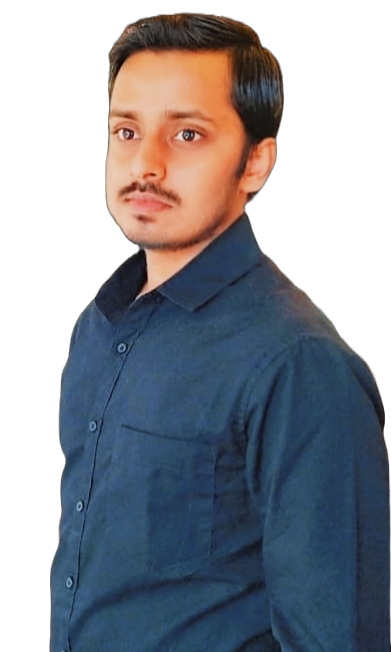
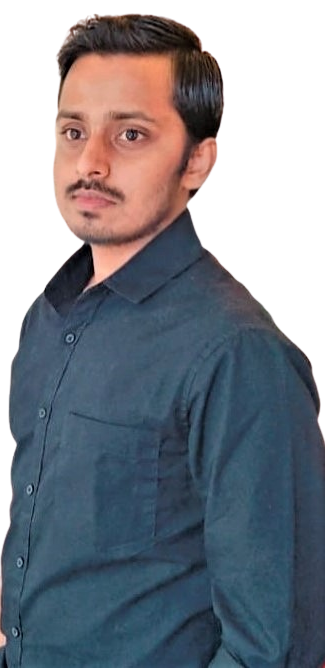
home section image changed and edited

diff --git a/src/components/home/index.module.scss b/src/components/home/index.module.scss
@@ -172,12 +172,12 @@
 
 .blob-Myimages1 {
   position: relative;
-  width: 53%;
+  width: 43%;
   margin-top: 2.5%;
   padding: 0;
   z-index: 2;
   transition: 0.8s;
-  border-radius: 0px 0px 50px 98px;
+  border-radius: 0px 0px 50px 58px;
 }
 .blob-Myimages1:hover {
   cursor: pointer;
@@ -187,12 +187,12 @@
 
 @media screen and (max-width: 1450px) {
   .blob-Myimages1 {
-    width: 56%;
+    width: 46%;
   }
 }
 @media screen and (max-width: 1380px) {
   .blob-Myimages1 {
-    width: 58%;
+    width: 48%;
     margin-top: 3.5%;
   }
   .blob-images2 {
@@ -204,7 +204,7 @@
 }
 @media screen and (max-width: 1280px) {
   .blob-Myimages1 {
-    width: 60%;
+    width: 50%;
   }
   .blob-images2 {
     width: 83%;
@@ -228,7 +228,7 @@
 
 @media screen and (max-width: 1215px) {
   .blob-Myimages1 {
-    width: 63%;
+    width: 53%;
     margin-top: 4.3%;
   }
   .blob-images2 {
@@ -241,7 +241,7 @@
 
 @media screen and (max-width: 1110px) {
   .blob-Myimages1 {
-    width: 69%;
+    width: 59%;
     // width: 58%;
   }
   .blob-images2 {
@@ -257,7 +257,7 @@
     margin-top: 7%;
   }
   .blob-Myimages1 {
-    width: 74%;
+    width: 54%;
     // width: 58%;
   }
   .blob-images2 {
@@ -270,7 +270,7 @@
 
 @media screen and (max-width: 1010px) {
   .blob-Myimages1 {
-    width: 75%;
+    width: 65%;
     margin-top: 3%;
     // width: 60%;
   }
@@ -287,7 +287,7 @@
     padding-top: 5%;
   }
   .blob-Myimages1 {
-    width: 78%;
+    width: 68%;
   }
   .blob-images2 {
     width: 87%;
@@ -302,7 +302,7 @@
     padding-top: 9%;
   }
   .blob-Myimages1 {
-    width: 64%;
+    width: 70%;
   }
   .blob-images2 {
     width: 88%;
@@ -317,7 +317,7 @@
     padding-top: 10%;
   }
   .blob-Myimages1 {
-    width: 65%;
+    width: 75%;
   }
   .blob-images2 {
     width: 89%;
